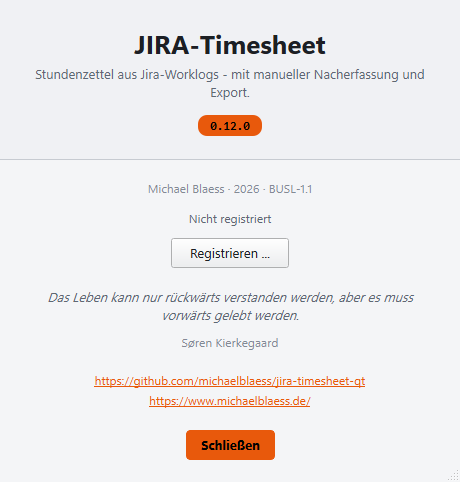
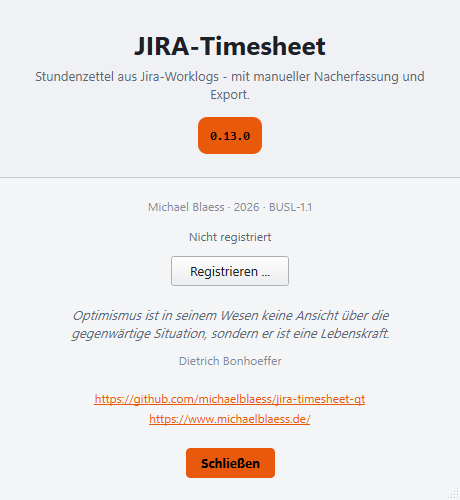
docs: Screenshots neu, Vorschau in den Ticketlisten, Projektseite auf v0.13.0
Alle Screenshots neu erzeugt, mit dem neuen Vorschau-Kopf, den neuen
Symbolen und Personen-Links. Neu ist board-preview in Hell und Dunkel: die
Ticket-Vorschau in "Meine Aktivitäten". Beide READMEs zeigen das Bild bei der
Ticket-Vorschau.

Projektseite: Version v0.13.0, das neue Bild in der Galerie, "Sechs
Ansichten" statt "Fünf" und die Vorschau-Karte mit Ticketlisten und
Personen-Links.

Claude-Session: https://claude.ai/code/session_01QEefPQztMwFr4DkqHvNvzb

diff --git a/docs/index.html b/docs/index.html
@@ -51,7 +51,7 @@
 
   <!-- HERO -->
   <section class="hero">
-    <div class="hero-badge"><span class="dot"></span> Desktop-GUI für Jira-Worklogs · v0.12.0</div>
+    <div class="hero-badge"><span class="dot"></span> Desktop-GUI für Jira-Worklogs · v0.13.0</div>
     <h1>Jira Timesheet <span class="accent">Desktop</span></h1>
     <p class="hero-description">Eine native Desktop-Anwendung (PySide6 / Qt 6) für Stundenzettel aus Jira-Worklogs - der einfach zu bedienende Desktop-Port der Textual-Anwendung jira-timesheet. Mit Liste, Monat und Jahr, Excel- und PDF-Export, Feiertagskalender und Jahres-Prognose.</p>
     <div class="hero-actions">
@@ -106,6 +106,8 @@
     <div class="gallery-cat" data-cat="5">
       <div class="gallery-card"><img src="screenshots/preview-dark.png" alt="Ticket-Vorschau (dunkel)"><div class="gallery-caption">Ticket-Vorschau neben der Liste - dunkel</div></div>
       <div class="gallery-card"><img src="screenshots/preview-light.png" alt="Ticket-Vorschau (hell)"><div class="gallery-caption">Ticket-Vorschau neben der Liste - hell</div></div>
+      <div class="gallery-card"><img src="screenshots/board-preview-dark.png" alt="Ticket-Vorschau in Meine Aktivitäten (dunkel)"><div class="gallery-caption">Ticket-Vorschau in Meine Aktivitäten, Personen als Links - dunkel</div></div>
+      <div class="gallery-card"><img src="screenshots/board-preview-light.png" alt="Ticket-Vorschau in Meine Aktivitäten (hell)"><div class="gallery-caption">Ticket-Vorschau in Meine Aktivitäten, Personen als Links - hell</div></div>
       <div class="gallery-card"><img src="screenshots/detail-dark.png" alt="Ticket-Details (dunkel)"><div class="gallery-caption">Ticket-Details - dunkel</div></div>
       <div class="gallery-card"><img src="screenshots/detail-light.png" alt="Ticket-Details (hell)"><div class="gallery-caption">Ticket-Details - hell</div></div>
     </div>
@@ -164,13 +166,13 @@
       </div>
       <div class="feature-card">
         <div class="feature-icon">📋</div>
-        <h3>Fünf Ansichten</h3>
-        <p>Liste mit KW und Wochentag, Monatsansicht mit einer Zeile je Ticket und Soll-Ist-Balken, Jahresansicht mit Prognose, dazu die beiden Ticket-Ansichten. Umschalten per Reiter oder Klick.</p>
+        <h3>Sechs Ansichten</h3>
+        <p>Liste mit KW und Wochentag, Monatsansicht mit einer Zeile je Ticket und Soll-Ist-Balken, Jahresansicht mit Prognose, dazu die drei Ticket-Ansichten. Umschalten per Reiter oder Klick.</p>
       </div>
       <div class="feature-card">
         <div class="feature-icon">🔍</div>
         <h3>Ticket-Vorschau</h3>
-        <p>Neben der Liste zeigt ein Splitter das gewählte Ticket read-only: Status, gebuchte Stunden, Lösungsversionen, zugewiesene Person, Fälligkeitsdatum, dazu Titel und Beschreibung mit Bildern. Einschaltbar unter Einstellungen, Seite Darstellung.</p>
+        <p>Neben dem Stundenzettel und neben den drei Ticket-Ansichten zeigt ein Splitter das gewählte Ticket read-only: Status, gebuchte Stunden, Lösungsversionen, zugewiesene Person, Autor, Fälligkeitsdatum, dazu Titel und Beschreibung mit Bildern. Personen sind Links: ein Klick zeigt ihre Tickets unter <strong>Mein Team</strong>, auch wenn sie nicht auf der Merkliste stehen. Einschaltbar unter Einstellungen, Seite Darstellung.</p>
       </div>
       <div class="feature-card">
         <div class="feature-icon">🎯</div>

diff --git a/assets/make_screenshots.py b/assets/make_screenshots.py
@@ -175,6 +175,9 @@ def _preview_window(mode: Mode) -> MainWindow:
             priority="Hoch",
             assignee="Mustermann, Max",
             creator="Beispiel, Bernd",
+            # Erfundene Kennungen - mit ihnen erscheinen die Personen als Links.
+            assignee_id="000000:00000000-0000-0000-0000-000000000001",
+            creator_id="000000:00000000-0000-0000-0000-000000000002",
             due_date="2026-09-30",
             updated="2026-09-14T10:42:00",
             time_spent_seconds=4 * 3600 + 30 * 60,
@@ -225,6 +228,54 @@ def _board_window(mode: Mode, *, relevant: bool = False) -> MainWindow:
     win._stack.setCurrentIndex(4 if relevant else 3)
     win._tabs.setCurrentIndex(4 if relevant else 3)
     win._summary_board(view, board_mode)
+    return win
+
+
+def _board_preview_window(mode: Mode) -> MainWindow:
+    """Wie _board_window fuer "Meine Aktivitaeten", dazu die Ticket-Vorschau rechts.
+
+    Die Vorschau zeigt das erste Ticket der Liste und wird von Hand gesetzt wie
+    in _preview_window. Ohne Token startet kein Abruf.
+
+    Args:
+        mode:
+            Helles oder dunkles Erscheinungsbild.
+
+    Returns:
+        Das vorbereitete Fenster, noch nicht angezeigt.
+    """
+    win = MainWindow(Settings(show_ticket_preview=True, jira_host="https://beispiel.atlassian.net"), mode)
+    _show_month_of(win, _data())
+    board = anonymize_board(demo_board(relevant=True))
+    view = win._board_view(MODE_RELEVANT)
+    win._real_boards[MODE_RELEVANT] = board
+    win._board_loaded[MODE_RELEVANT] = True
+    view.set_board(board)
+    win._tabs.setCurrentIndex(4)
+    win._summary_board(view, MODE_RELEVANT)
+    ticket = board.tickets[0]
+    view.select_ticket(ticket.key)
+    win._preview_timer.stop()
+    win._preview.show_data(
+        TicketPreviewData(
+            key=ticket.key,
+            summary=ticket.summary,
+            status=ticket.status,
+            status_category=ticket.category or "indeterminate",
+            issue_type=ticket.issue_type,
+            priority=ticket.priority,
+            assignee=ticket.assignee or "Mustermann, Max",
+            creator=ticket.reporter or "Beispiel, Bernd",
+            assignee_id="000000:00000000-0000-0000-0000-000000000001",
+            creator_id="000000:00000000-0000-0000-0000-000000000002",
+            due_date="2026-09-30",
+            updated="2026-09-14T10:42:00",
+            time_spent_seconds=2 * 3600,
+            description_html="<p>Ein Klick auf eine Person zeigt ihre Tickets unter Mein Team.</p>",
+            fetched_at="2026-09-14T11:05:00",
+        )
+    )
+    view.preview_host().setSizes([880, 600])
     return win
 
 
@@ -286,6 +337,9 @@ def main() -> int:
 
         # Relevante Tickets - dieselbe Ansicht, fremde Zuweisung
         _grab(_board_window(mode, relevant=True), OUT / f"board-relevant-{tag}.png", W, H)
+
+        # Ticket-Vorschau in einer Ticketliste, Personen als Links
+        _grab(_board_preview_window(mode), OUT / f"board-preview-{tag}.png", W, H)
 
         # Einstellungen - Arbeitszeit
         dlg = SettingsDialog(Settings())

diff --git a/README.de.md b/README.de.md
@@ -68,6 +68,11 @@ Die Anwendung folgt dem hellen oder dunklen Erscheinungsbild und einer einstellb
   <img src="docs/screenshots/preview-light.png" width="49%" alt="Ticket-Vorschau (hell)">
 </p>
 
+<p align="center">
+  <img src="docs/screenshots/board-preview-dark.png" width="49%" alt="Ticket-Vorschau in Meine Aktivitäten (dunkel)">
+  <img src="docs/screenshots/board-preview-light.png" width="49%" alt="Ticket-Vorschau in Meine Aktivitäten (hell)">
+</p>
+
 ### Monats- und Jahresansicht
 
 <p align="center">

diff --git a/README.md b/README.md
@@ -66,6 +66,11 @@ The application follows the light or dark theme and a configurable accent colour
   <img src="docs/screenshots/preview-light.png" width="49%" alt="Ticket preview (light)">
 </p>
 
+<p align="center">
+  <img src="docs/screenshots/board-preview-dark.png" width="49%" alt="Ticket preview in My activity (dark)">
+  <img src="docs/screenshots/board-preview-light.png" width="49%" alt="Ticket preview in My activity (light)">
+</p>
+
 ### Month and year view
 
 <p align="center">
